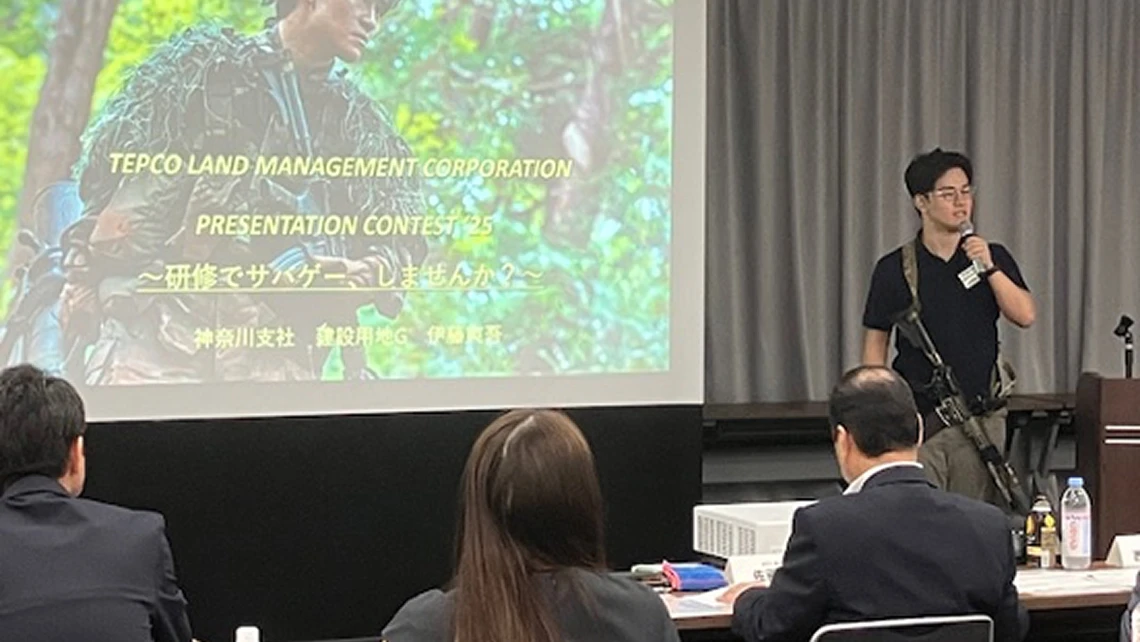
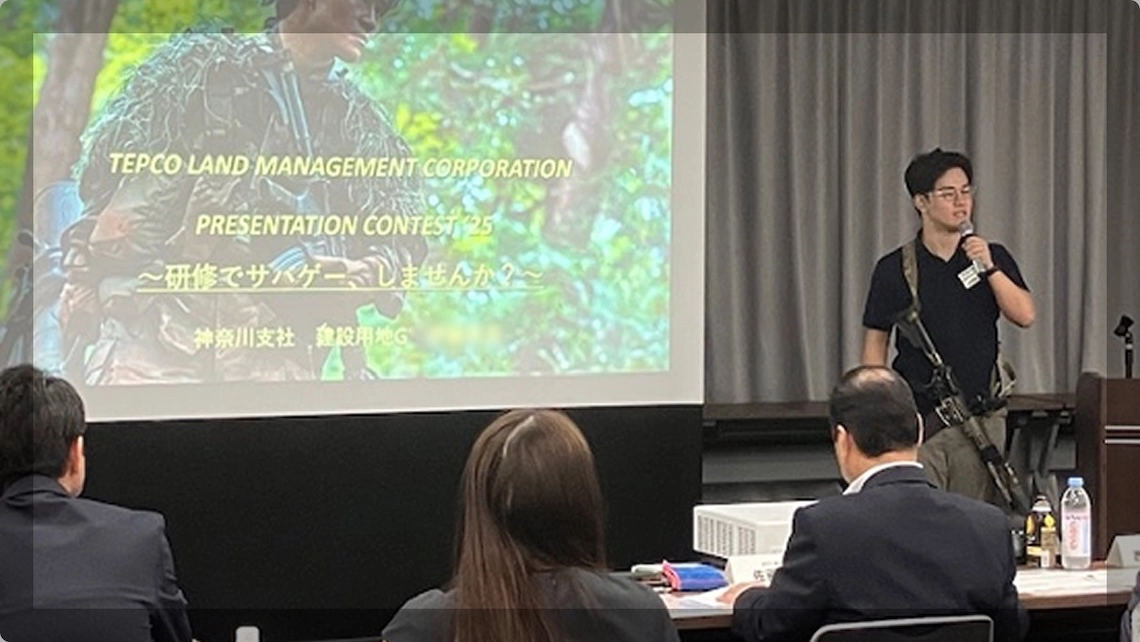
「代表メッセージ」→「社長メッセージ」へ変更、写真の名前をマスキング、チーム座談会「Yさん」に修正(言水)

diff --git a/public_html/wp-content/themes/todenyouchi-recruit/page-people__crosstalk-team.php b/public_html/wp-content/themes/todenyouchi-recruit/page-people__crosstalk-team.php
@@ -187,7 +187,7 @@
                                                         <p class="baloon-name">T.K</p>
                                                     </dt>
                                                     <dd>
-                                                        <p>柳原さん、よく頑張ってると思うよ。僕は新人には“まず自分でやってみて、つまずいたらフォローする”って指導を心掛けてるんだ。</p>
+                                                        <p>Yさん、よく頑張ってると思うよ。僕は新人には“まず自分でやってみて、つまずいたらフォローする”って指導を心掛けてるんだ。</p>
                                                     </dd>
                                                 </dl>
                                                 <dl class="baloon-item">

diff --git a/public_html/wp-content/themes/todenyouchi-recruit/page-company.php b/public_html/wp-content/themes/todenyouchi-recruit/page-company.php
@@ -107,7 +107,7 @@
                         <div class="head-contents">
                             <h2 class="ttl -ttl01">
                                 <span class="sub">Message</span>
-                                <span class="main">代表メッセージ</span>
+                                <span class="main">社長メッセージ</span>
                             </h2>
                             <p class="head-img animation -animation03">
                                 <picture>
